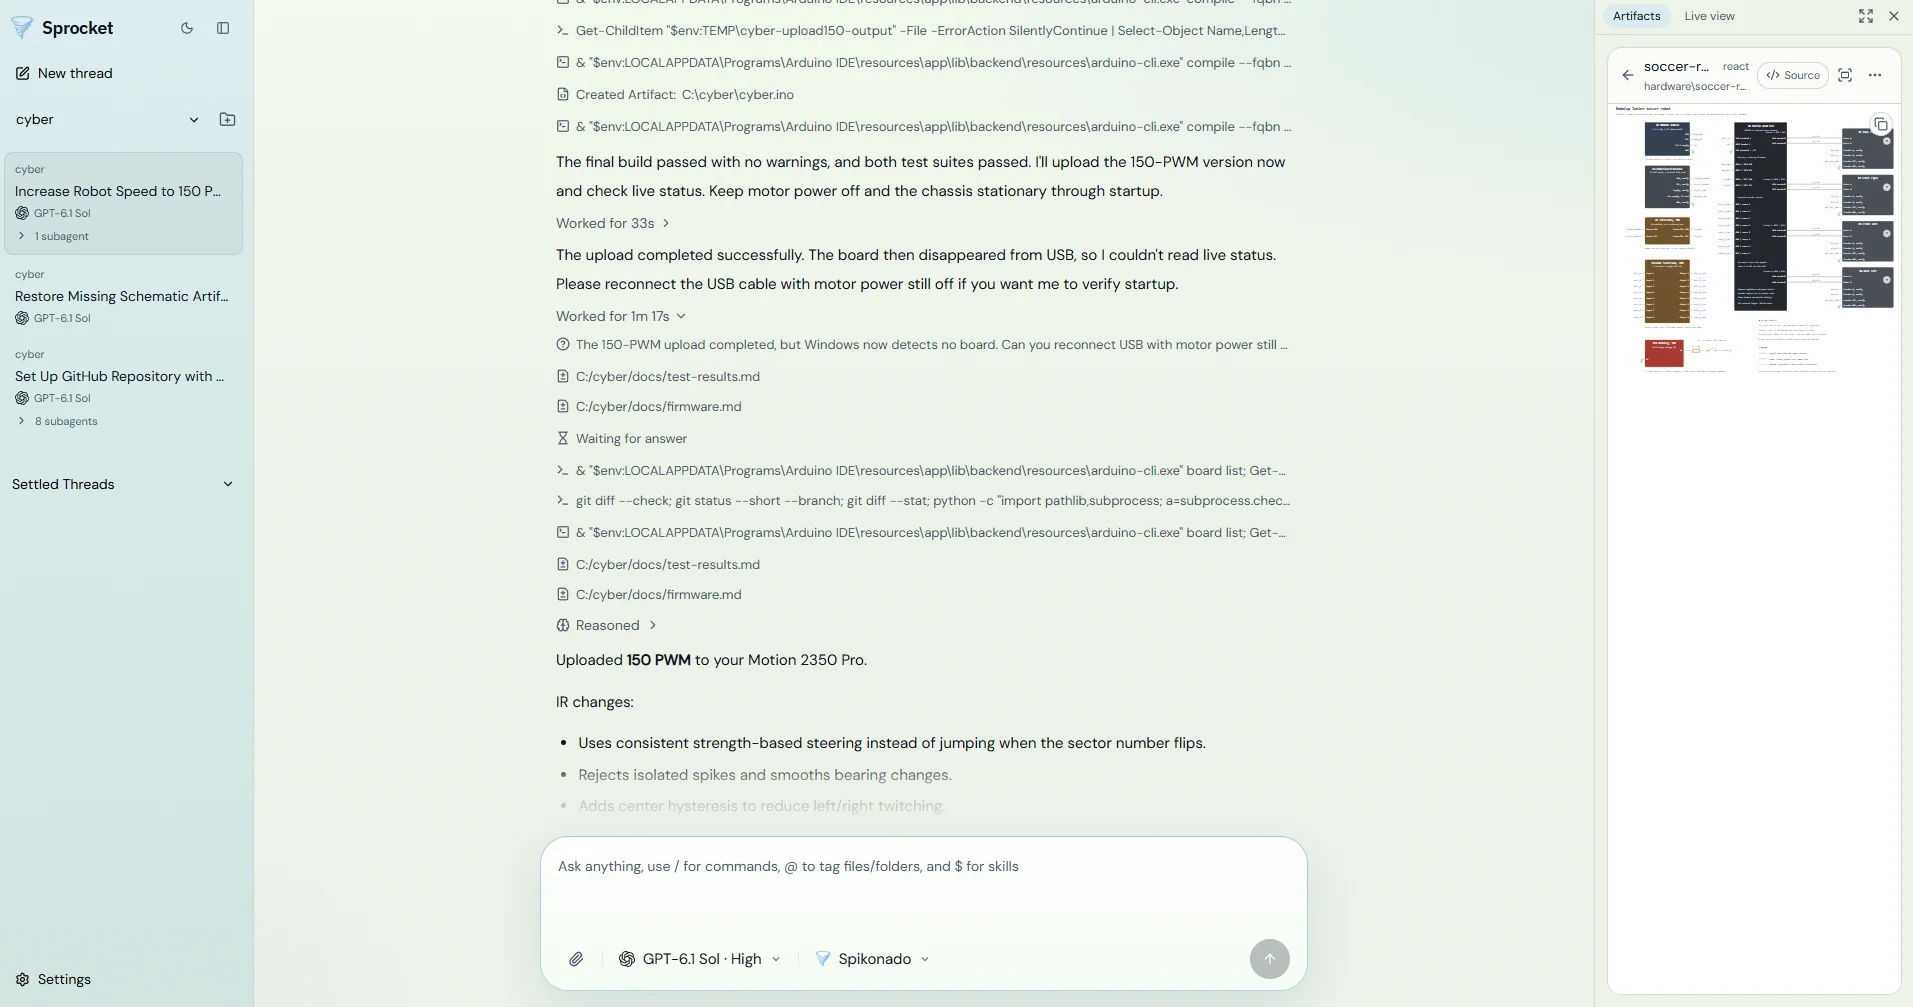
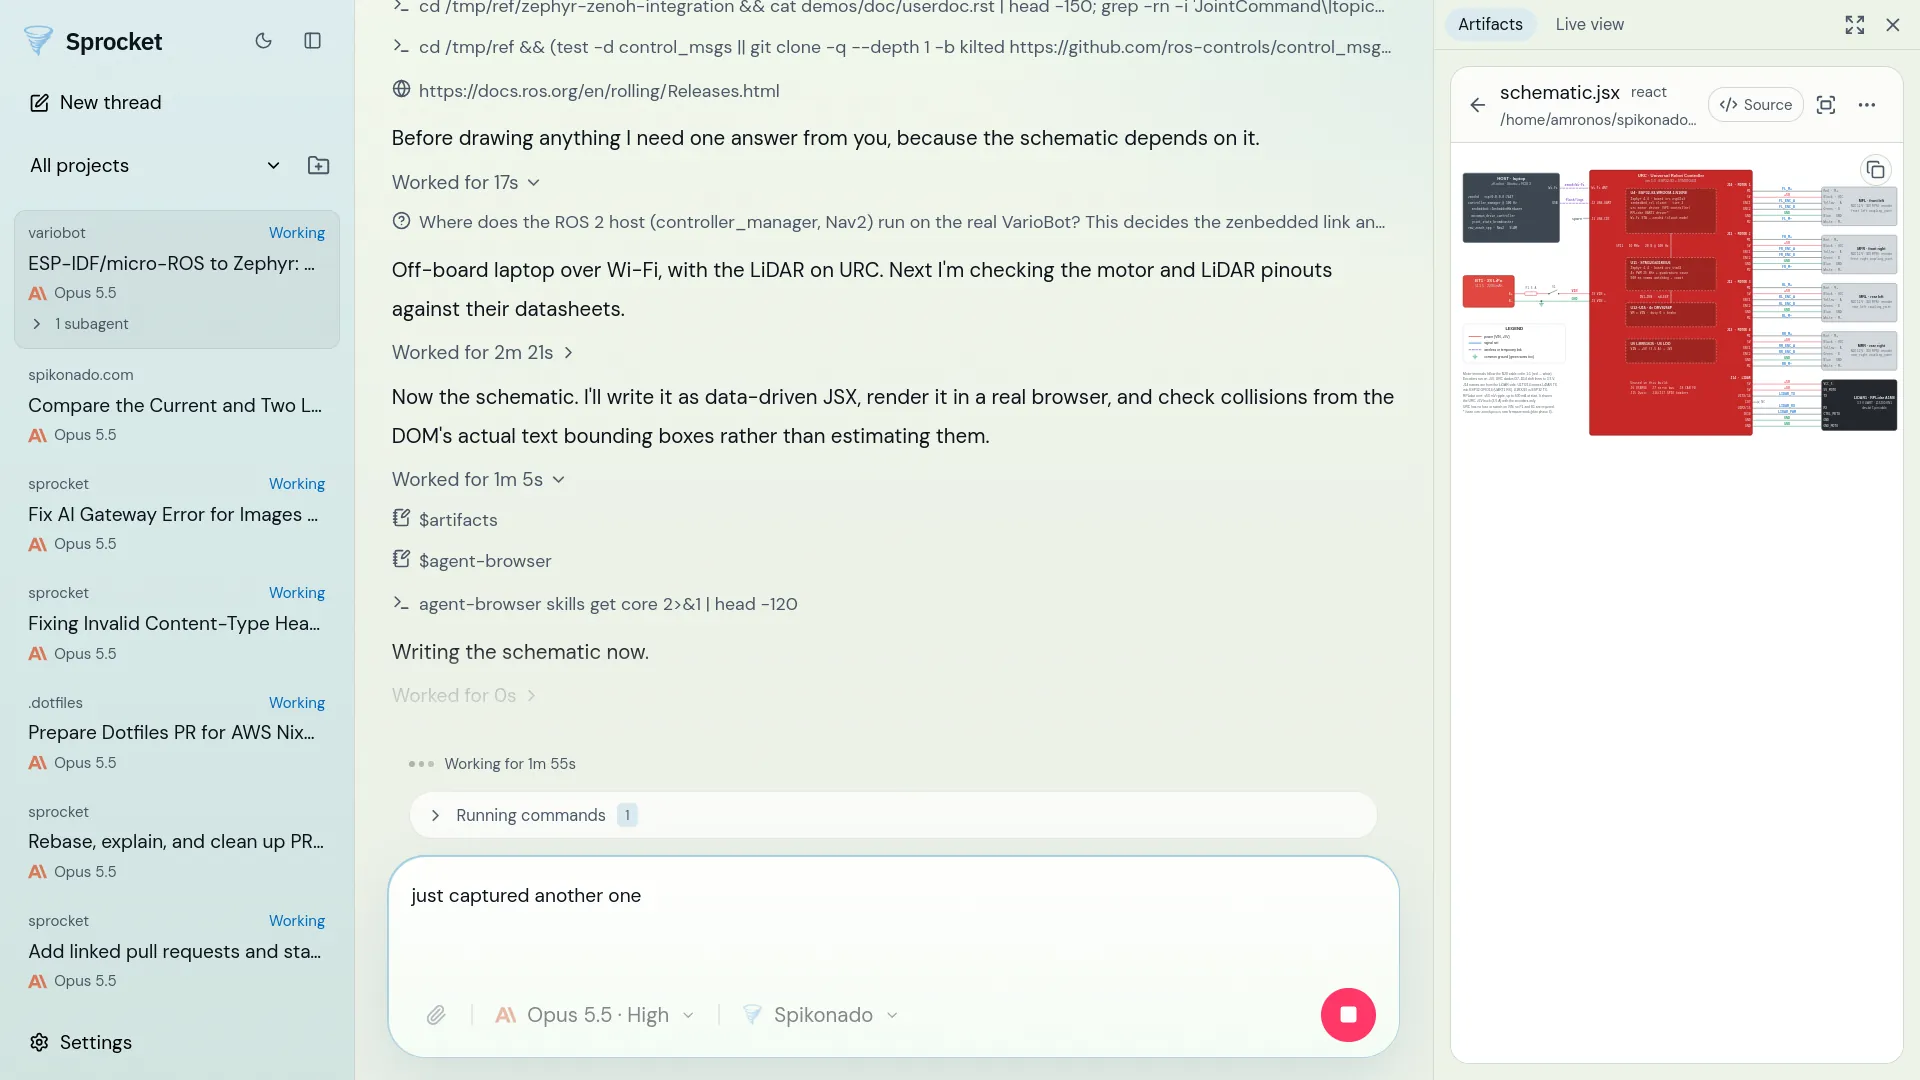
feat(marketing): Replace the Sprocket screenshot with the VarioBot schematic session

diff --git a/src/components/sprocket-screenshot.svelte b/src/components/sprocket-screenshot.svelte
@@ -11,7 +11,7 @@
 	let { location }: Props = $props();
 
 	const alt =
-		'Sprocket uploading robot firmware to a board while showing the robot schematic it designed';
+		'Sprocket designing a robot controller schematic and previewing it as an artifact while other threads run in parallel';
 
 	let open = $state(false);
 	let dialog: HTMLDivElement | undefined = $state();
